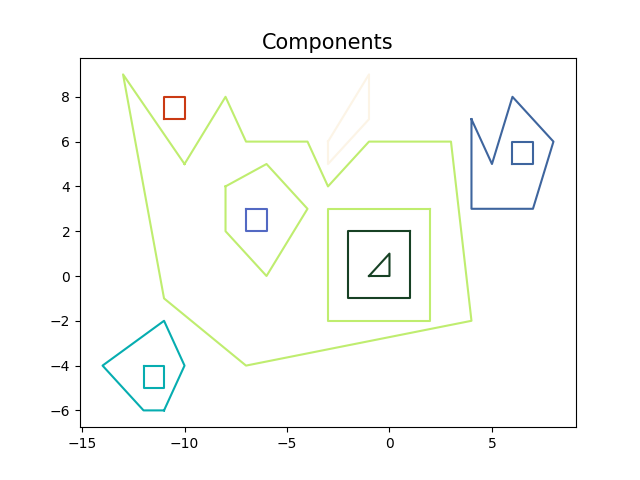
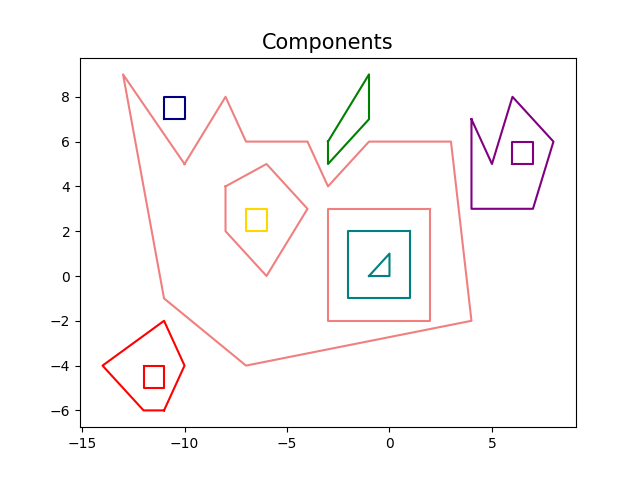
change colors

diff --git a/answer_visualization.py b/answer_visualization.py
@@ -2,7 +2,7 @@ from random import random
 
 import matplotlib.pyplot as plt
 
-colors = [(random(), random(), random()) for i in range(100)]
+colors = ['black', 'red', 'lightcoral', 'gold', 'teal', 'navy', 'g', 'purple', 'grey', 'mediumpurple', 'pink', 'blue', 'sienna', 'greenyellow', 'maroon']
 
 with open('cmake-build-debug/output.txt', 'r') as f:
     plt.title('Components', fontsize=15)
